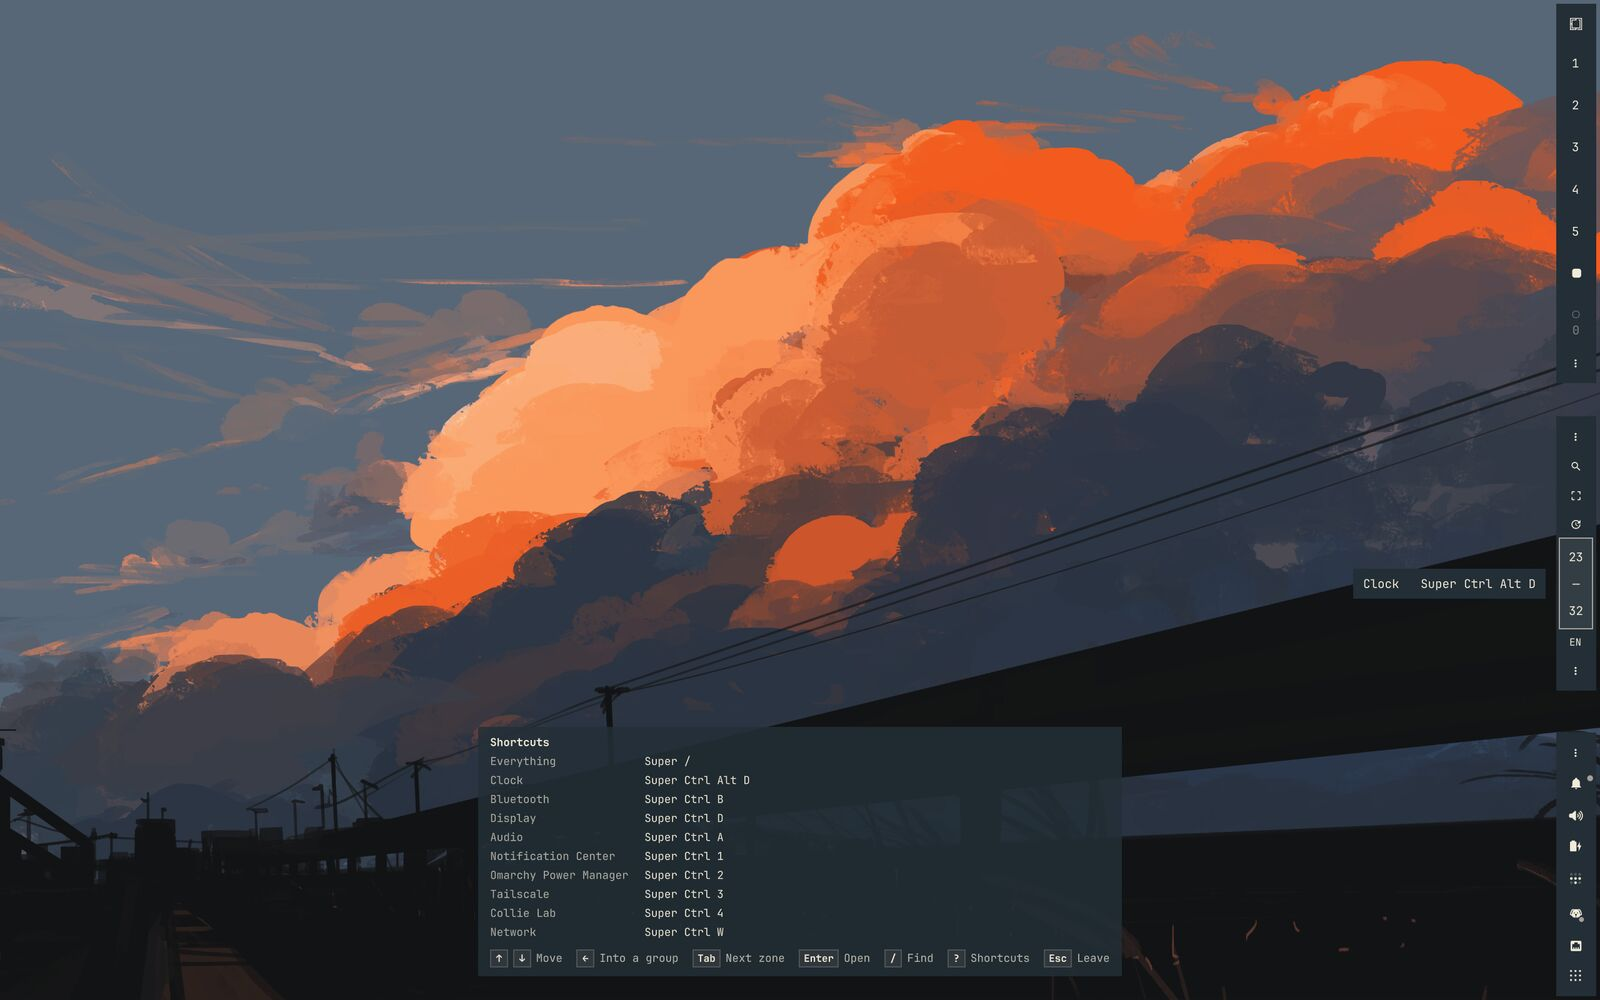
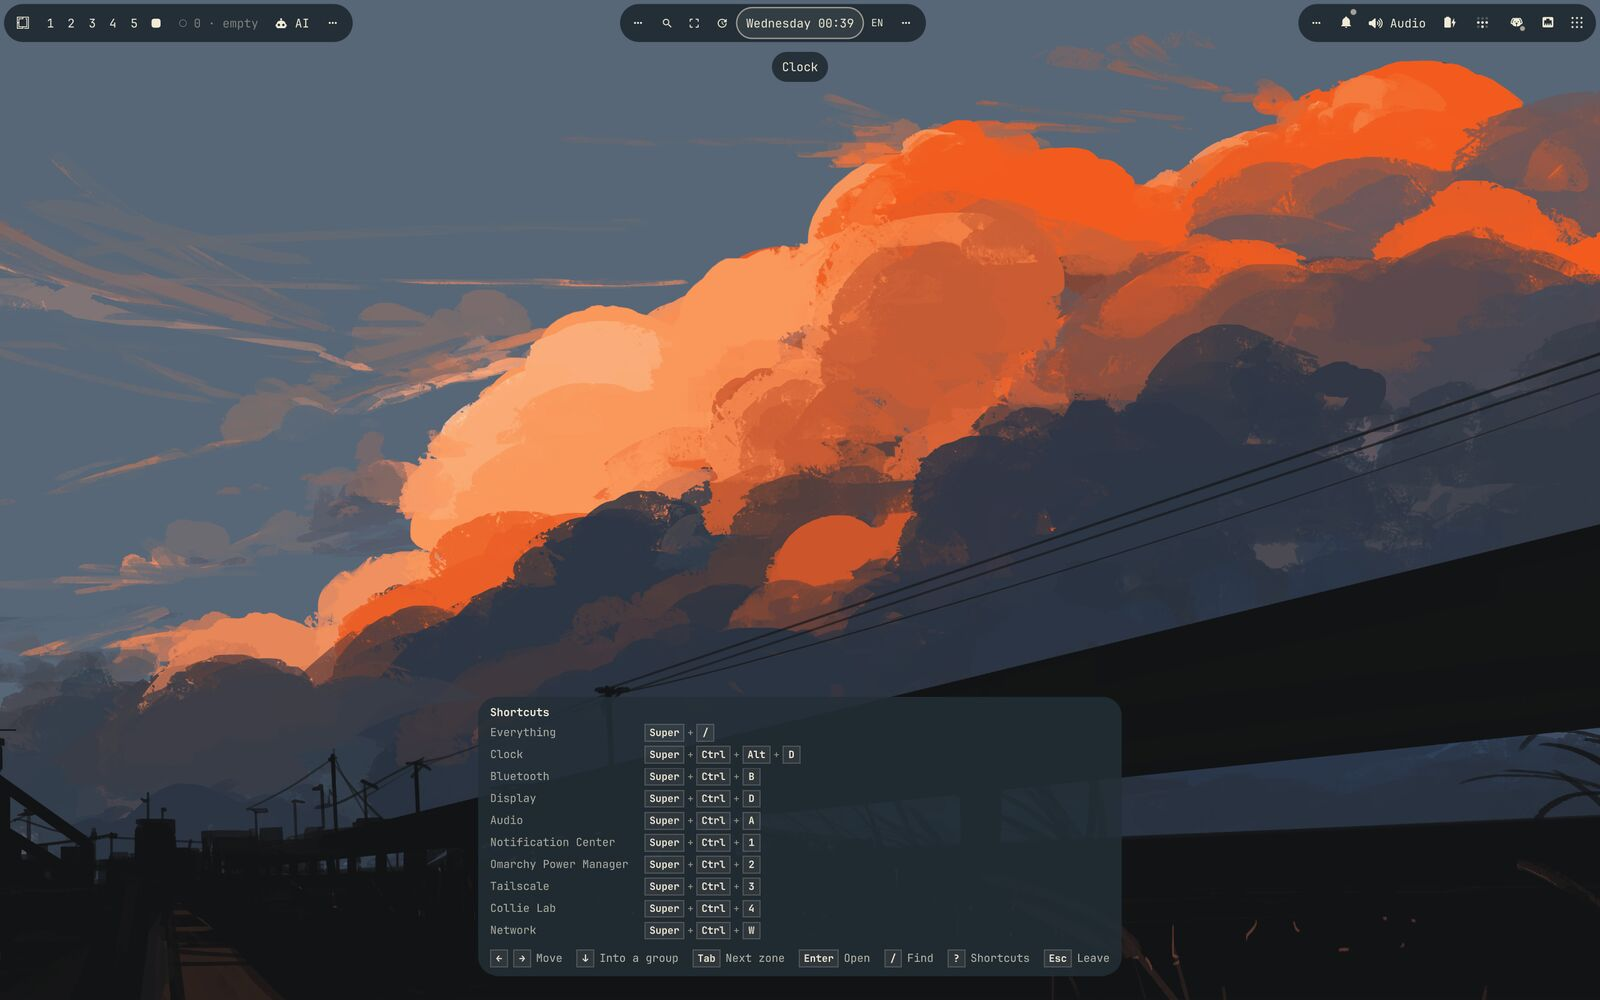
README: retake the ? sheet with keycaps joined by +

diff --git a/README.md b/README.md
@@ -107,7 +107,7 @@ whose original copyright and MIT license notice are preserved in
 <tr>
 <td width="33%"><a href="screenshots/keys-search.jpg"><img src="screenshots/keys-search.jpg" alt="Typing /sess opens the AI group with the cursor on Session Browser"></a><br><sub><code>/sess</code> opens the group and lands on the row</sub></td>
 <td width="33%"><a href="screenshots/keys-walk.jpg"><img src="screenshots/keys-walk.jpg" alt="The arrows walk the open menu, the name card follows"></a><br><sub>Arrows walk the menu; the name card follows</sub></td>
-<td width="33%"><a href="screenshots/keys-sheet.jpg"><img src="screenshots/keys-sheet.jpg" alt="The ? sheet lists every shortcut, on a large side bar"></a><br><sub><code>?</code> lists every shortcut; large bar on the right edge</sub></td>
+<td width="33%"><a href="screenshots/keys-sheet.jpg"><img src="screenshots/keys-sheet.jpg" alt="The ? sheet lists every shortcut as keycaps"></a><br><sub><code>?</code> lists every shortcut as keycaps</sub></td>
 </tr>
 </table>
 
